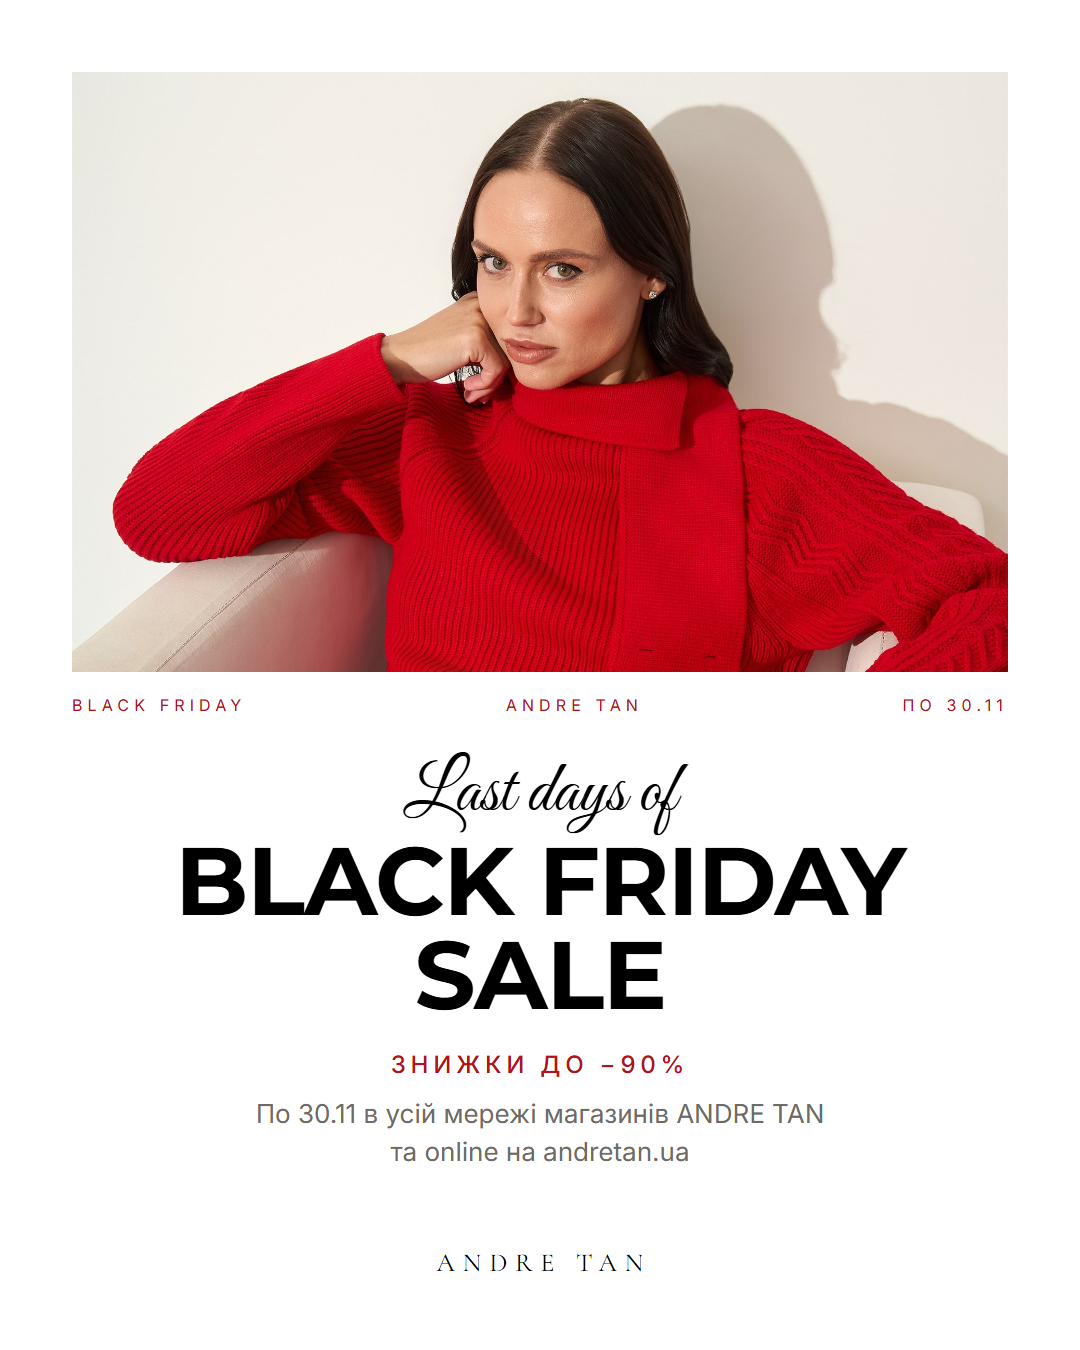
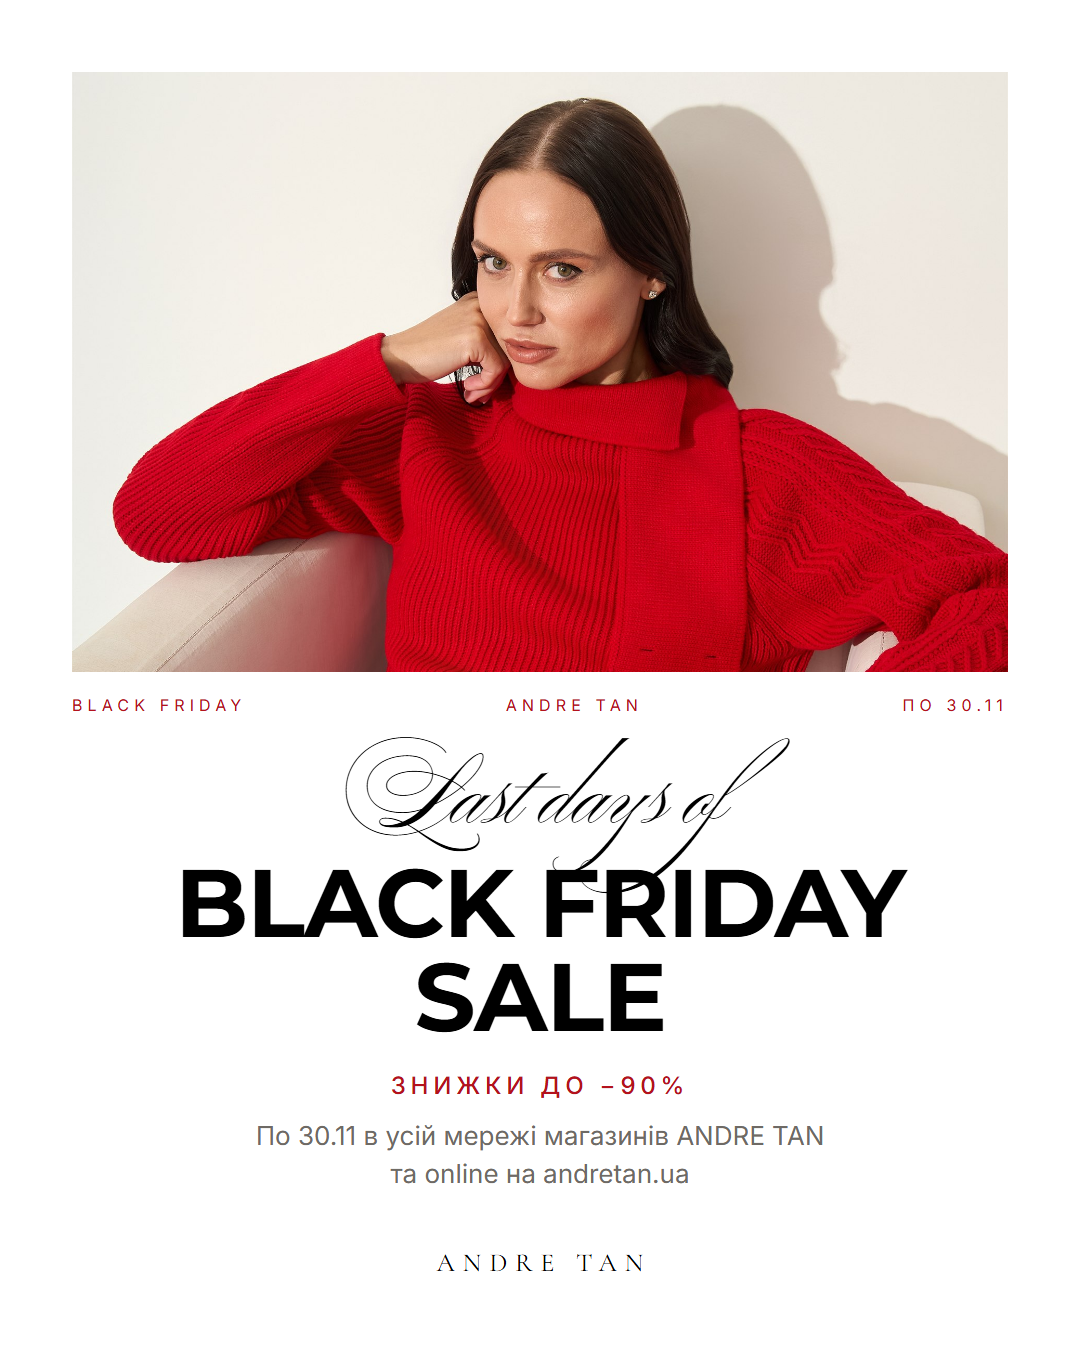
Script font: Great Vibes -> Ballet (OFL); Great Vibes kept as Cyrillic fallback
Ballet has no Cyrillic glyphs. Script accent enlarged to 96px with opsz 36 for legibility.
Re-rendered bf-last-days.png.

Changed region(s): [[0.1528, 0.56, 0.8556, 0.8711], [0.6722, 0.56, 0.7028, 0.5911]]

diff --git a/design-system/index.html b/design-system/index.html
@@ -6,7 +6,7 @@
 <title>ANDRE TAN — Instagram Design System</title>
 <link rel="preconnect" href="https://fonts.googleapis.com">
 <link rel="preconnect" href="https://fonts.gstatic.com" crossorigin>
-<link href="https://fonts.googleapis.com/css2?family=Cormorant+Garamond:ital,wght@0,400;1,400&family=Manrope:wght@300;400&family=Montserrat:wght@700&family=Inter:wght@400;500&family=Great+Vibes&display=swap" rel="stylesheet">
+<link href="https://fonts.googleapis.com/css2?family=Cormorant+Garamond:ital,wght@0,400;1,400&family=Manrope:wght@300;400&family=Montserrat:wght@700&family=Inter:wght@400;500&family=Ballet:opsz@16..72&family=Great+Vibes&display=swap" rel="stylesheet">
 <link rel="stylesheet" href="tokens.css">
 <link rel="stylesheet" href="components.css">
 <link rel="stylesheet" href="docs.css">
@@ -68,7 +68,7 @@
     <div><span class="fc-role">Display</span><div class="fc-sample" style="font:700 60px/1 var(--at-post-display);text-transform:uppercase;letter-spacing:-.02em">Aa Бб</div><b>Montserrat Bold</b><p>Замість <s>Stolzl</s> — жирний геометричний гротеск. Великі заголовки, анонси, SALE.</p><small>OFL 1.1 · Google Fonts · кирилиця ✓</small></div>
     <div><span class="fc-role">Heading</span><div class="fc-sample" style="font:300 60px/1 var(--at-post-heading);letter-spacing:-.02em">Aa Бб</div><b>Vela Sans → Manrope Light</b><p>Тонкий сучасний sans-serif. Vela Sans — похідна від Manrope (теж OFL); поки її файлів немає, показується Manrope Light.</p><small>OFL 1.1 · кирилиця ✓</small></div>
     <div><span class="fc-role">Body / UI</span><div class="fc-sample" style="font:400 60px/1 var(--at-post-body);letter-spacing:-.02em">Aa Бб</div><b>Inter</b><p>Оригінал зі списку. Текст, ціни, мітки, кнопки в постах.</p><small>OFL 1.1 · Google Fonts · кирилиця ✓</small></div>
-    <div><span class="fc-role">Script</span><div class="fc-sample" style="font:400 68px/1 var(--at-post-script)">Aa Бб</div><b>Great Vibes</b><p>Замість <s>Shelley Script</s> — елегантний рукописний. Лише акценти в 1–3 слова.</p><small>OFL 1.1 · Google Fonts · кирилиця ✓</small></div>
+    <div><span class="fc-role">Script</span><div class="fc-sample" style="font:400 68px/1 var(--at-post-script)">Aa Bb</div><b>Ballet</b><p>Каліграфічний рукописний з контрастом у стилі fashion. Лише акценти в 1–3 слова, бажано латиницею.</p><small>OFL 1.1 · Google Fonts · кирилиці немає → Great Vibes</small></div>
   </div>
   <div id="post-type-specimen" class="type-list post-type"></div>
 </section>

diff --git a/design-system/tokens.css b/design-system/tokens.css
@@ -101,7 +101,7 @@
    Display — Montserrat Bold  (аналог платного Stolzl)
    Heading — Vela Sans → Manrope Light (Vela — похідна від Manrope, OFL; файли у fonts/ підхопляться самі)
    Body    — Inter
-   Script  — Great Vibes      (аналог платного Shelley Script) */
+   Script  — Ballet           (латиниця; кирилиця → Great Vibes як запасний) */
 @font-face { font-family: "Vela Sans"; src: url("fonts/VelaSans-Light.woff2") format("woff2"); font-weight: 300; font-display: swap; }
 
 :root {
@@ -109,7 +109,7 @@
   --at-post-display: "Montserrat", "Helvetica Neue", Arial, sans-serif;
   --at-post-heading: "Vela Sans", "Manrope", "Helvetica Neue", Arial, sans-serif;
   --at-post-body: "Inter", "Helvetica Neue", Arial, sans-serif;
-  --at-post-script: "Great Vibes", cursive;
+  --at-post-script: "Ballet", "Great Vibes", cursive; /* Great Vibes — лише для кирилиці, якої в Ballet немає */
 }
 .canvas, .post-type { --at-font-body: var(--at-post-body); }
 
@@ -118,7 +118,7 @@
 :is(.canvas, .post-type) .t-h1         { font: 300 80px/1.05 var(--at-post-heading); letter-spacing: -0.02em; }
 :is(.canvas, .post-type) .t-h2         { font: 300 56px/1.10 var(--at-post-heading); letter-spacing: -0.01em; }
 :is(.canvas, .post-type) .t-h3         { font: 300 40px/1.15 var(--at-post-heading); letter-spacing: -0.005em; }
-:is(.canvas, .post-type) .t-h2-italic  { font: 400 72px/1.1 var(--at-post-script); letter-spacing: 0; }
+:is(.canvas, .post-type) .t-h2-italic  { font: 400 96px/1.05 var(--at-post-script); letter-spacing: 0; }
 :is(.canvas, .post-type) .t-script-l   { font: 400 150px/1.0 var(--at-post-script); }
 :is(.canvas, .post-type) .t-body-l     { font: 400 32px/1.45 var(--at-post-body); }
 :is(.canvas, .post-type) .t-body-m     { font: 400 26px/1.45 var(--at-post-body); }
@@ -126,5 +126,7 @@
 :is(.canvas, .post-type) .t-caps-m     { font: 500 20px/1.2 var(--at-post-body); letter-spacing: 0.22em; }
 :is(.canvas, .post-type) .t-caps-s     { font: 500 16px/1.2 var(--at-post-body); letter-spacing: 0.26em; }
 :is(.canvas, .post-type) .t-price      { font: 500 30px/1.2 var(--at-post-body); letter-spacing: 0.02em; }
-/* .italic у постах = script-акцент (Great Vibes) */
+/* .italic у постах = script-акцент (Ballet) */
 :is(.canvas, .post-type) .italic       { font-family: var(--at-post-script); font-style: normal; font-weight: 400; text-transform: none; letter-spacing: 0; }
+/* Ballet: мала x-висота і тонкі волосяні — беремо щільніший оптичний розмір, щоб читалось у стрічці */
+:is(.canvas, .post-type) :is(.t-h2-italic, .t-script-l, .italic) { font-variation-settings: "opsz" 36; }

diff --git a/design-system/app.js b/design-system/app.js
@@ -41,8 +41,8 @@
     ['Heading / H1', 't-h1', 'Vela Sans Light · 80 / 105%', 'Elegance in Details'],
     ['Heading / H2', 't-h2', 'Vela Sans Light · 56 / 110%', 'Elegance in Details'],
     ['Heading / H3', 't-h3', 'Vela Sans Light · 40 / 115%', 'Elegance in Details'],
-    ['Script / L', 't-script-l', 'Great Vibes · 150 / 100%', 'Sale'],
-    ['Script (.t-h2-italic)', 't-h2-italic', 'Great Vibes · 72 / 110%', 'new capsule'],
+    ['Script / L', 't-script-l', 'Ballet · 150 / 100%', 'Sale'],
+    ['Script (.t-h2-italic)', 't-h2-italic', 'Ballet · 96 / 105%', 'new capsule'],
     ['Body / L', 't-body-l', 'Inter Regular · 32 / 145%', 'Relaxed silk shirt dress with a belt.'],
     ['Body / M', 't-body-m', 'Inter Regular · 26 / 145%', 'Relaxed silk shirt dress with a belt.'],
     ['Label / Caps M', 't-caps-m', 'Inter Medium · 20 / 120% / 22%', 'New in · SS 2027'],

diff --git a/design-system/posts/bf-last-days.html b/design-system/posts/bf-last-days.html
@@ -7,7 +7,7 @@
      Рендер у PNG: powershell -ExecutionPolicy Bypass -File posts/render.ps1 -->
 <link rel="preconnect" href="https://fonts.googleapis.com">
 <link rel="preconnect" href="https://fonts.gstatic.com" crossorigin>
-<link href="https://fonts.googleapis.com/css2?family=Cormorant+Garamond:ital,wght@0,400;1,400&family=Manrope:wght@300;400&family=Montserrat:wght@700&family=Inter:wght@400;500&family=Great+Vibes&display=swap" rel="stylesheet">
+<link href="https://fonts.googleapis.com/css2?family=Cormorant+Garamond:ital,wght@0,400;1,400&family=Manrope:wght@300;400&family=Montserrat:wght@700&family=Inter:wght@400;500&family=Ballet:opsz@16..72&family=Great+Vibes&display=swap" rel="stylesheet">
 <link rel="stylesheet" href="../tokens.css">
 <link rel="stylesheet" href="../components.css">
 <link rel="stylesheet" href="post.css">
